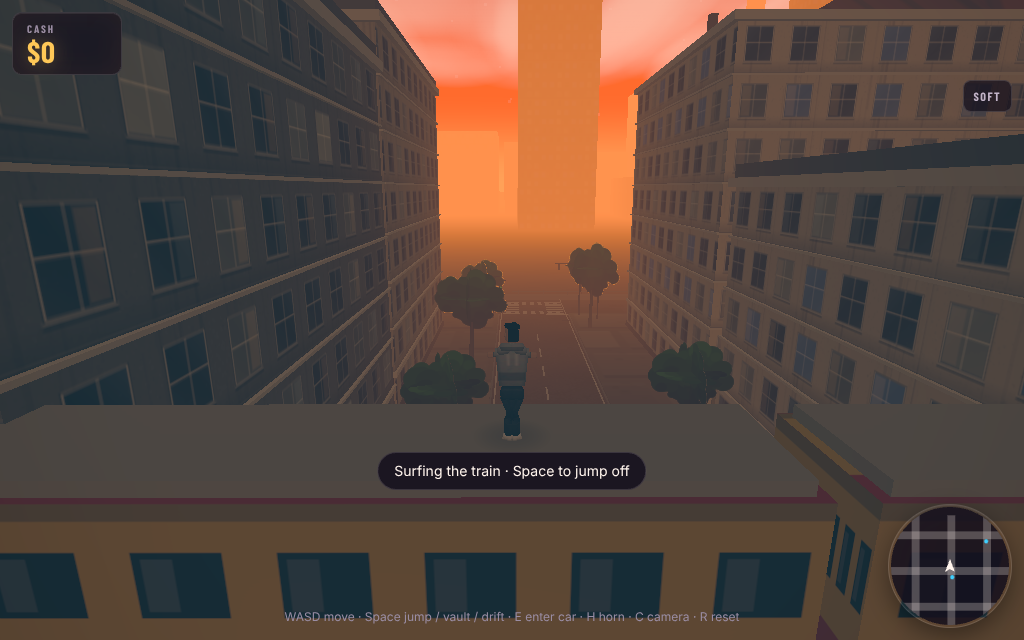
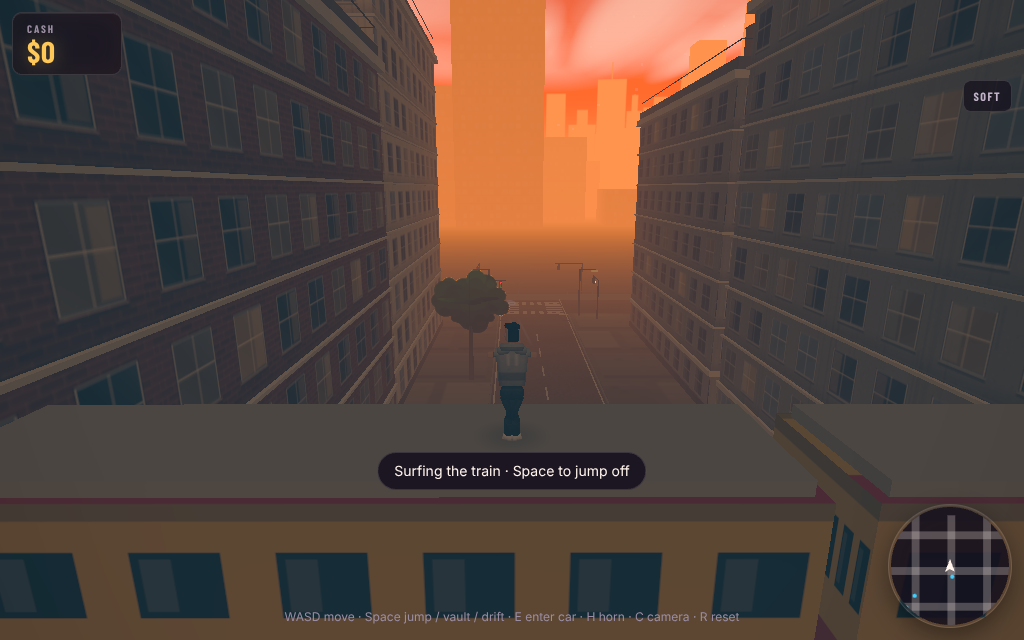
City: lamp cones and bulbs, skyline rings, roof clutter, road decals
Claude-Session: https://claude.ai/code/session_018KZLyQB5QBTByuUpC7x4xA

diff --git a/src/city/world.ts b/src/city/world.ts
@@ -16,7 +16,7 @@ function mergeSafe(geos: THREE.BufferGeometry[]): THREE.BufferGeometry {
 import { Rng } from '../game/rng';
 import { asphaltTexture, cobbleTexture, facadeTexture, foliageTexture, graffitiTexture, roofTexture, trainTexture, type Facade, type FacadeStyle } from './textures';
 import { buildProps, type PropsOut, type Solid3 } from './props';
-import { neonLabelTexture, shopfrontTexture } from './textures';
+import { coneTexture, neonLabelTexture, puddleTexture, shopfrontTexture, skidTexture, skylineTexture } from './textures';
 
 const SHOP_NAMES = ['BAKERY', 'KIOSK 24', 'LAUNDRY', 'BARBER', 'NOODLE BAR', 'VINYL', 'PHARMACY', 'CAFÉ LUNA', 'TATTOO', 'FISH MARKET', 'BOOKS', 'REPAIRS', 'PIZZA', 'FLOWERS', 'ARCADE'];
 const SIGN_COLORS = [0xc8352a, 0x2a6a9a, 0x2f7a55, 0xe8b530, 0x7a3a8a, 0xd96a2a];
@@ -204,6 +204,7 @@ export function buildWorld(scene: THREE.Scene, seed = 7, quality: 'high' | 'bala
   const lampHeadGeos: THREE.BufferGeometry[] = [];
   const hedgeGeos: THREE.BufferGeometry[] = [];
   const woodGeos: THREE.BufferGeometry[] = [];
+  const skylineRings: THREE.Mesh[] = [];
   const blockInfo: { cx: number; cz: number; half: number; district: string }[] = [];
   const roofTops: { x: number; z: number; minX: number; maxX: number; minZ: number; maxZ: number; y: number }[] = [];
   let rooftopSpot: THREE.Vector3 | null = null;
@@ -423,10 +424,45 @@ export function buildWorld(scene: THREE.Scene, seed = 7, quality: 'high' | 'bala
           par.translate(lot.x, hgt + 0.9, lot.z);
           roofGeos.push(par);
           for (let k = 0; k < 2 + rng.int(0, 3); k++) {
-            const ac = new THREE.BoxGeometry(2 + rng.next() * 2, 1.4, 2 + rng.next() * 2);
-            ac.translate(lot.x + (rng.next() - 0.5) * (w - 6), hgt + 1.3, lot.z + (rng.next() - 0.5) * (d - 6));
+            const ax = lot.x + (rng.next() - 0.5) * (w - 6);
+            const az = lot.z + (rng.next() - 0.5) * (d - 6);
+            const ac = new THREE.BoxGeometry(1.6 + rng.next() * 1.4, 1.1, 1.6 + rng.next() * 1.4);
+            ac.translate(ax, hgt + 1.1, az);
             roofGeos.push(ac);
+            const fan = new THREE.CylinderGeometry(0.5, 0.5, 0.1, 10);
+            fan.translate(ax, hgt + 1.7, az);
+            darkGeos.push(fan);
           }
+          // Railing along the parapet, a water tank, pipes and a vent stack.
+          const railH = 1.0;
+          for (const [rx, rz, rw, rd] of [[lot.x, lot.z - d / 2, w, 0.06], [lot.x, lot.z + d / 2, w, 0.06], [lot.x - w / 2, lot.z, 0.06, d], [lot.x + w / 2, lot.z, 0.06, d]] as const) {
+            const bar = new THREE.BoxGeometry(rw, 0.06, rd);
+            bar.translate(rx, hgt + 1.5 + railH, rz);
+            darkGeos.push(bar);
+          }
+          if (rng.next() > 0.45) {
+            const tx = lot.x + (rng.next() - 0.5) * (w - 8);
+            const tz = lot.z + (rng.next() - 0.5) * (d - 8);
+            const tank = new THREE.CylinderGeometry(1.6, 1.6, 3, 10);
+            tank.translate(tx, hgt + 3.8, tz);
+            woodGeos.push(tank);
+            const lid = new THREE.ConeGeometry(1.7, 0.8, 10);
+            lid.translate(tx, hgt + 5.7, tz);
+            darkGeos.push(lid);
+            for (const [lx, lz] of [[-1.2, -1.2], [1.2, -1.2], [-1.2, 1.2], [1.2, 1.2]] as const) {
+              const leg = new THREE.BoxGeometry(0.15, 2.2, 0.15);
+              leg.translate(tx + lx, hgt + 1.4, tz + lz);
+              darkGeos.push(leg);
+            }
+          }
+          for (let k = 0; k < 2; k++) {
+            const vent = new THREE.CylinderGeometry(0.22, 0.22, 1.2 + rng.next(), 8);
+            vent.translate(lot.x + (rng.next() - 0.5) * (w - 4), hgt + 0.9, lot.z + (rng.next() - 0.5) * (d - 4));
+            darkGeos.push(vent);
+          }
+          const pipe = new THREE.BoxGeometry(w - 4, 0.14, 0.14);
+          pipe.translate(lot.x, hgt + 0.45, lot.z - d / 2 + 1.5);
+          darkGeos.push(pipe);
           if (rng.next() > 0.5) {
             const ant = new THREE.CylinderGeometry(0.1, 0.2, 6 + rng.next() * 12, 6);
             ant.translate(lot.x + (rng.next() - 0.5) * (w - 4), hgt + 4, lot.z + (rng.next() - 0.5) * (d - 4));
@@ -503,7 +539,7 @@ export function buildWorld(scene: THREE.Scene, seed = 7, quality: 'high' | 'bala
   const windowMats: THREE.MeshLambertMaterial[] = [];
   for (const { facade, geos } of buildings.values()) {
     if (!geos.length) continue;
-    const mat = new THREE.MeshLambertMaterial({ map: facade.map, emissiveMap: facade.emissive, emissive: 0xffffff, emissiveIntensity: 0, color: facade.color });
+    const mat = new THREE.MeshLambertMaterial({ map: facade.map, emissiveMap: facade.emissive, emissive: 0xffd9a8, emissiveIntensity: 0, color: facade.color });
     windowMats.push(mat);
     const m = new THREE.Mesh(mergeSafe(geos), mat);
     m.castShadow = false;
@@ -551,6 +587,39 @@ export function buildWorld(scene: THREE.Scene, seed = 7, quality: 'high' | 'bala
     drainGeos.push(mh);
   }
   group.add(new THREE.Mesh(mergeSafe(drainGeos), new THREE.MeshLambertMaterial({ color: 0x2e2c2a })));
+  // Tyre marks curving out of intersections and puddles along the gutters.
+  const dm = new THREE.Matrix4();
+  const skidMat = new THREE.MeshBasicMaterial({ map: skidTexture(), transparent: true, depthWrite: false, opacity: 0.8 });
+  const skids = new THREE.InstancedMesh(new THREE.PlaneGeometry(14, 3.2), skidMat, 60);
+  let si = 0;
+  for (let i = 0; i < 60; i++) {
+    const alongX = rng.chance(0.5);
+    const road = alongX ? rng.pick(roadsZ) : rng.pick(roadsX);
+    const cross = alongX ? rng.pick(roadsX) : rng.pick(roadsZ);
+    const off = (rng.chance(0.5) ? 1 : -1) * (LANE / 2 + 0.3);
+    const along = cross + (rng.chance(0.5) ? 1 : -1) * (12 + rng.next() * 16);
+    const x = alongX ? along : road + off;
+    const z = alongX ? road + off : along;
+    dm.compose(new THREE.Vector3(x, 0.02, z), new THREE.Quaternion().setFromEuler(new THREE.Euler(-Math.PI / 2, 0, (alongX ? 0 : Math.PI / 2) + (rng.next() - 0.5) * 0.5)), new THREE.Vector3(1, 1, 1));
+    skids.setMatrixAt(si++, dm);
+  }
+  skids.renderOrder = 1;
+  group.add(skids);
+  const puddleMat = new THREE.MeshBasicMaterial({ map: puddleTexture(), color: 0x6a7080, transparent: true, opacity: 0, depthWrite: false });
+  const puddles = new THREE.InstancedMesh(new THREE.PlaneGeometry(1, 1), puddleMat, 120);
+  for (let i = 0; i < 120; i++) {
+    const alongX = rng.chance(0.5);
+    const road = alongX ? rng.pick(roadsZ) : rng.pick(roadsX);
+    const along = rng.range(-CITY_HALF, CITY_HALF);
+    const off = (rng.chance(0.5) ? 1 : -1) * (ROAD / 2 - SIDEWALK - 1.2);
+    const x = alongX ? along : road + off;
+    const z = alongX ? road + off : along;
+    const s = 2 + rng.next() * 4;
+    dm.compose(new THREE.Vector3(x, 0.025, z), new THREE.Quaternion().setFromEuler(new THREE.Euler(-Math.PI / 2, 0, rng.next() * 3)), new THREE.Vector3(s, s * 0.7, 1));
+    puddles.setMatrixAt(i, dm);
+  }
+  puddles.renderOrder = 1;
+  group.add(puddles);
 
   // Trees (instanced).
   const trunkMesh = new THREE.InstancedMesh(new THREE.CylinderGeometry(0.16, 0.26, 1, 7), new THREE.MeshLambertMaterial({ color: 0x5a4636}), Math.max(1, treeTrunks.length));
@@ -581,6 +650,27 @@ export function buildWorld(scene: THREE.Scene, seed = 7, quality: 'high' | 'bala
     pools.setMatrixAt(i, pm);
   });
   group.add(pools);
+  // Light cones hanging from each lamp head (two crossed billboards) and a bulb glow sprite.
+  const coneMat = new THREE.MeshBasicMaterial({ map: coneTexture(), color: 0xffd58a, transparent: true, opacity: 0, blending: THREE.AdditiveBlending, depthWrite: false, side: THREE.DoubleSide });
+  const cones = new THREE.InstancedMesh(new THREE.PlaneGeometry(5.5, 6.4), coneMat, lamps.length * 2);
+  const bulbMat = new THREE.SpriteMaterial({ map: poolTex, color: 0xfff0c0, transparent: true, opacity: 0, blending: THREE.AdditiveBlending, depthWrite: false });
+  lamps.forEach((l, i) => {
+    const hx = l.x + (l.x < 0 ? 2.0 : -2.0) * 0; // head sits ~2 m toward the road from the pole
+    const armDir = Math.sign(-(l.x % CELL + CELL) % CELL + CELL / 2) || 1;
+    const headX = l.x - armDir * 2.0;
+    for (let k = 0; k < 2; k++) {
+      pm.compose(new THREE.Vector3(headX + hx, 6.5 - 3.2, l.z), new THREE.Quaternion().setFromEuler(new THREE.Euler(0, (k * Math.PI) / 2, 0)), new THREE.Vector3(1, 1, 1));
+      cones.setMatrixAt(i * 2 + k, pm);
+    }
+    const bulb = new THREE.Sprite(bulbMat);
+    bulb.position.set(headX, 6.5, l.z);
+    bulb.scale.set(2.4, 1.6, 1);
+    group.add(bulb);
+    pm.compose(new THREE.Vector3(headX, 0.34, l.z), pq, new THREE.Vector3(1, 1, 1));
+    pools.setMatrixAt(i, pm);
+  });
+  pools.instanceMatrix.needsUpdate = true;
+  group.add(cones);
   void hedgeGeos;
 
   /* ---------------- parked cars ---------------- */
@@ -779,6 +869,15 @@ export function buildWorld(scene: THREE.Scene, seed = 7, quality: 'high' | 'bala
   const farMat = new THREE.MeshLambertMaterial({ map: farFacade.map, emissiveMap: farFacade.emissive, emissive: 0xffffff, emissiveIntensity: 0, color: 0xa09890});
   windowMats.push(farMat);
   group.add(new THREE.Mesh(mergeSafe(farGeos), farMat));
+  // Two silhouette rings with window-dot sheets, far beyond the modelled skyline; they catch the fog colour.
+  for (const [radius, tall, hgtS, seedS] of [[CITY_HALF + 700, false, 120, 3], [CITY_HALF + 1050, true, 260, 9]] as const) {
+    const tex = skylineTexture(seed + seedS, tall);
+    tex.repeat.set(6, 1);
+    const ring = new THREE.Mesh(new THREE.CylinderGeometry(radius, radius, hgtS, 64, 1, true), new THREE.MeshBasicMaterial({ map: tex, transparent: true, side: THREE.BackSide, depthWrite: false, color: 0xffffff }));
+    ring.position.y = hgtS / 2;
+    skylineRings.push(ring);
+    group.add(ring);
+  }
   // A few distant spires and a dome.
   for (let i = 0; i < 6; i++) {
     const a = rng.next() * Math.PI * 2;
@@ -963,6 +1062,10 @@ export function buildWorld(scene: THREE.Scene, seed = 7, quality: 'high' | 'bala
       for (const sf of shopfronts.values()) sf.mat.emissiveIntensity = n * 0.45;
       lampHeadMat.emissiveIntensity = n * 3;
       poolMat.opacity = n * 0.35;
+      coneMat.opacity = n * 0.22;
+      bulbMat.opacity = n * 0.9;
+      puddleMat.opacity = 0.25 + n * 0.4;
+      for (const r of skylineRings) (r.material as THREE.MeshBasicMaterial).color.setScalar(1 - n * 0.6);
     },
   };
 }

diff --git a/src/city/textures.ts b/src/city/textures.ts
@@ -495,3 +495,97 @@ export function shopfrontTexture(seed: number, accent: number): THREE.CanvasText
   }
   return finish(c);
 }
+
+/** Vertical light cone: bright at the top, fading out and widening toward the ground (used as a billboard under lamps). */
+export function coneTexture(): THREE.CanvasTexture {
+  const [c, g] = canvas(128, 256);
+  g.clearRect(0, 0, 128, 256);
+  const grad = g.createLinearGradient(0, 0, 0, 256);
+  grad.addColorStop(0, 'rgba(255,255,255,0.9)');
+  grad.addColorStop(0.5, 'rgba(255,255,255,0.28)');
+  grad.addColorStop(1, 'rgba(255,255,255,0)');
+  g.fillStyle = grad;
+  g.beginPath();
+  g.moveTo(56, 0);
+  g.lineTo(72, 0);
+  g.lineTo(128, 256);
+  g.lineTo(0, 256);
+  g.closePath();
+  g.fill();
+  // Soft the edges.
+  const side = g.createLinearGradient(0, 0, 128, 0);
+  side.addColorStop(0, 'rgba(0,0,0,1)');
+  side.addColorStop(0.3, 'rgba(0,0,0,0)');
+  side.addColorStop(0.7, 'rgba(0,0,0,0)');
+  side.addColorStop(1, 'rgba(0,0,0,1)');
+  g.globalCompositeOperation = 'destination-out';
+  g.fillStyle = side;
+  g.fillRect(0, 0, 128, 256);
+  const t = new THREE.CanvasTexture(c);
+  t.colorSpace = THREE.SRGBColorSpace;
+  t.wrapS = t.wrapT = THREE.ClampToEdgeWrapping;
+  return t;
+}
+
+/** Distant skyline silhouette strip with window-dot sheets; alpha above the roofline. */
+export function skylineTexture(seed: number, tall: boolean): THREE.CanvasTexture {
+  const rng = new Rng(seed);
+  const [c, g] = canvas(2048, 256);
+  g.clearRect(0, 0, 2048, 256);
+  let x = 0;
+  while (x < 2048) {
+    const w = 30 + rng.next() * 90;
+    const h = (tall ? 90 : 40) + rng.next() * (tall ? 150 : 80);
+    const shade = tall ? 70 + rng.next() * 30 : 95 + rng.next() * 30;
+    g.fillStyle = `rgb(${shade},${shade - 6},${shade - 10})`;
+    g.fillRect(x, 256 - h, w, h);
+    if (rng.next() > 0.6) g.fillRect(x + w * 0.3, 256 - h - 14 - rng.next() * 20, w * 0.4, 14 + 20);
+    if (rng.next() > 0.7) g.fillRect(x + w * 0.5 - 1, 256 - h - 30, 3, 30);
+    for (let wy = 256 - h + 6; wy < 250; wy += 9) for (let wx = x + 4; wx < x + w - 4; wx += 7) {
+      if (rng.next() > 0.45) continue;
+      g.fillStyle = rng.next() > 0.5 ? 'rgba(255,220,160,0.85)' : 'rgba(180,210,255,0.6)';
+      g.fillRect(wx, wy, 3, 4);
+    }
+    x += w + 2 + rng.next() * 10;
+  }
+  const t = new THREE.CanvasTexture(c);
+  t.colorSpace = THREE.SRGBColorSpace;
+  t.wrapS = THREE.RepeatWrapping;
+  t.wrapT = THREE.ClampToEdgeWrapping;
+  return t;
+}
+
+/** Decal sheet: a long skid mark pair and a puddle shape, each on alpha. */
+export function skidTexture(): THREE.CanvasTexture {
+  const [c, g] = canvas(256, 128);
+  g.clearRect(0, 0, 256, 128);
+  for (const y of [40, 88]) {
+    const grad = g.createLinearGradient(0, 0, 256, 0);
+    grad.addColorStop(0, 'rgba(10,10,10,0)');
+    grad.addColorStop(0.3, 'rgba(10,10,10,0.55)');
+    grad.addColorStop(0.8, 'rgba(10,10,10,0.45)');
+    grad.addColorStop(1, 'rgba(10,10,10,0)');
+    g.fillStyle = grad;
+    g.fillRect(0, y - 7, 256, 14);
+  }
+  const t = new THREE.CanvasTexture(c);
+  return t;
+}
+export function puddleTexture(seed = 21): THREE.CanvasTexture {
+  const rng = new Rng(seed);
+  const [c, g] = canvas(128, 128);
+  g.clearRect(0, 0, 128, 128);
+  g.fillStyle = 'rgba(255,255,255,1)';
+  g.beginPath();
+  for (let i = 0; i < 12; i++) {
+    const a = (i / 12) * Math.PI * 2;
+    const r = 38 + rng.next() * 22;
+    const px = 64 + Math.cos(a) * r;
+    const py = 64 + Math.sin(a) * r * 0.7;
+    if (i === 0) g.moveTo(px, py);
+    else g.quadraticCurveTo(64 + Math.cos(a - 0.26) * (r + 8), 64 + Math.sin(a - 0.26) * (r + 8) * 0.7, px, py);
+  }
+  g.closePath();
+  g.fill();
+  return new THREE.CanvasTexture(c);
+}

diff --git a/src/city/sky.ts b/src/city/sky.ts
@@ -161,7 +161,7 @@ export class SkyDome {
     // Fog colour follows the horizon: warm haze by day, deep blue at night.
     fog.color.copy(k.hor).lerp(k.mid, 0.3).lerp(k.sun, a.warmth * 0.12);
     // Heavy retro fog: the far end of every street dissolves into the sky colour.
-    fog.density = 0.0042 + a.warmth * 0.0016 + a.night * 0.0012;
+    fog.density = 0.0040 + a.warmth * 0.0016 + a.night * 0.0003;
     void renderer;
     // Clouds and stars.
     (this.clouds.material as THREE.MeshBasicMaterial).color.copy(new THREE.Color(0xfff0e0).lerp(new THREE.Color(0xff7a4a), a.warmth * 0.7).lerp(new THREE.Color(0x1a2038), a.night));

diff --git a/CHANGELOG.md b/CHANGELOG.md
@@ -1,5 +1,13 @@
 # Changelog
 
+## 1.5.3 — NEON CITY: night lighting, skyline, roof clutter, road decals
+
+- Every lamp post has a bulb glow sprite and crossed additive light cones at night; ground pools aligned under the heads.
+- Two silhouette skyline rings with window-dot sheets far beyond the modelled city; they darken at night.
+- Roof clutter: parapet railings, AC units with fans, water tanks on legs, vent stacks and pipes (seen from the train and rooftops).
+- Tyre-mark decals out of intersections and puddles along the gutters that strengthen at night.
+- Window glow is warm instead of white; night fog thinned so streets read deeper.
+
 ## 1.5.2 — NEON CITY: shopfronts, road surface, drains
 
 - Textured shopfront strip on every old-town/residential ground floor: 4 m bays with lit windows, shelves of goods, glazed doors, fascia bands and SALE/OPEN decals; they glow at night.
